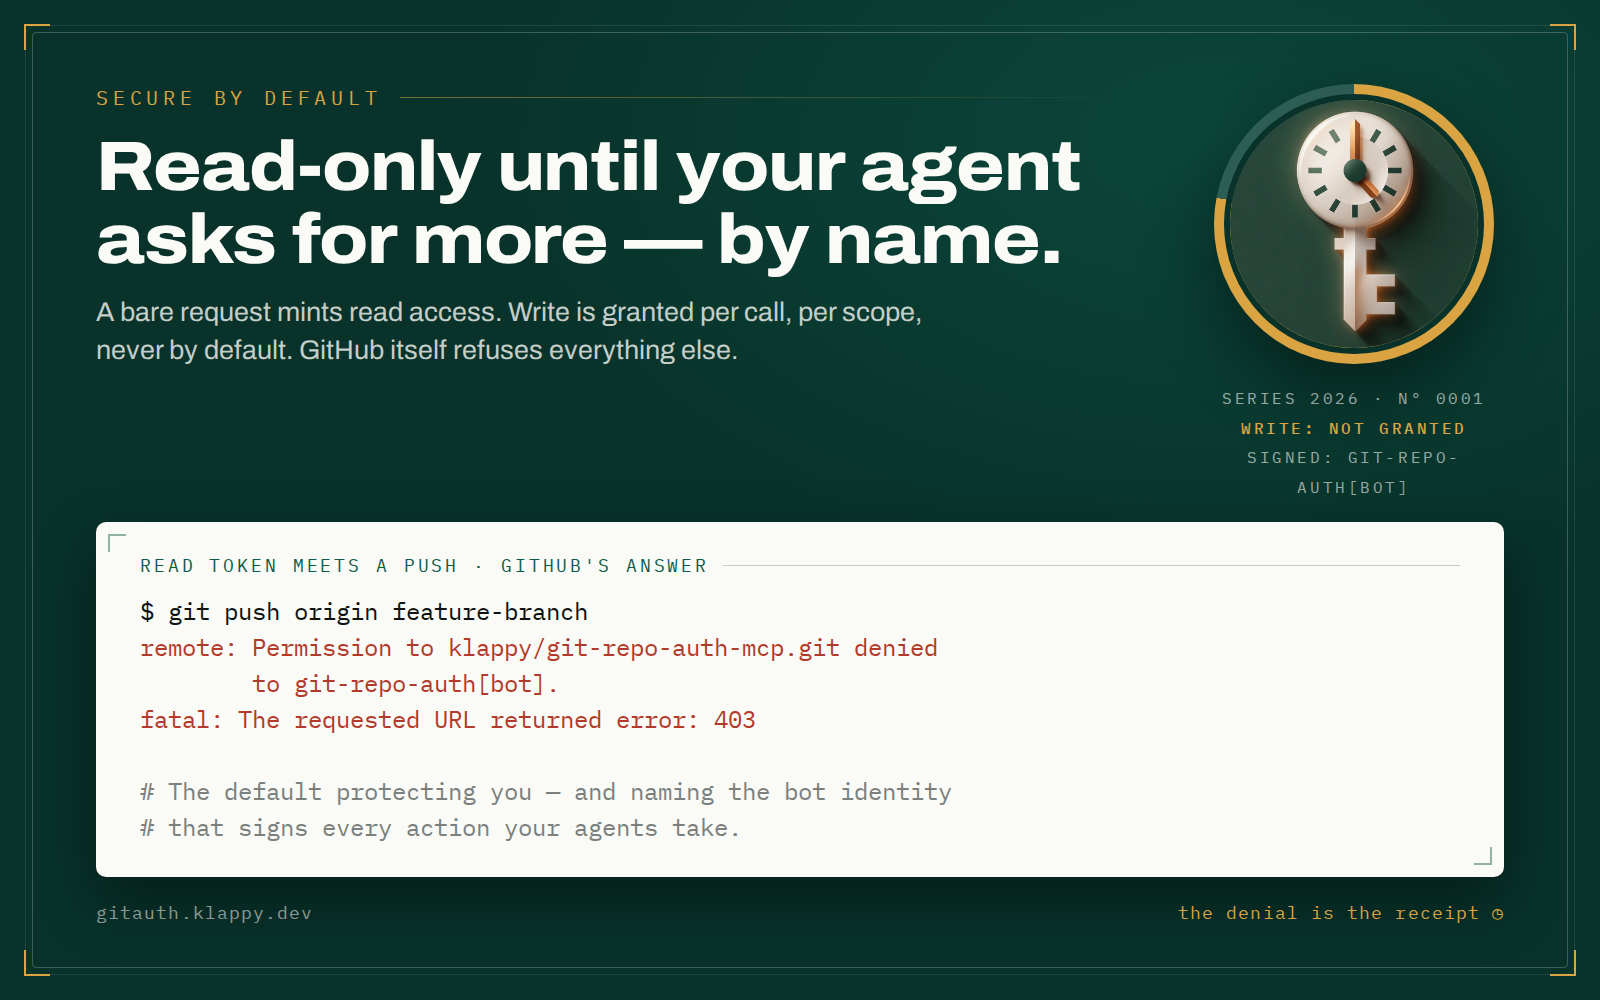
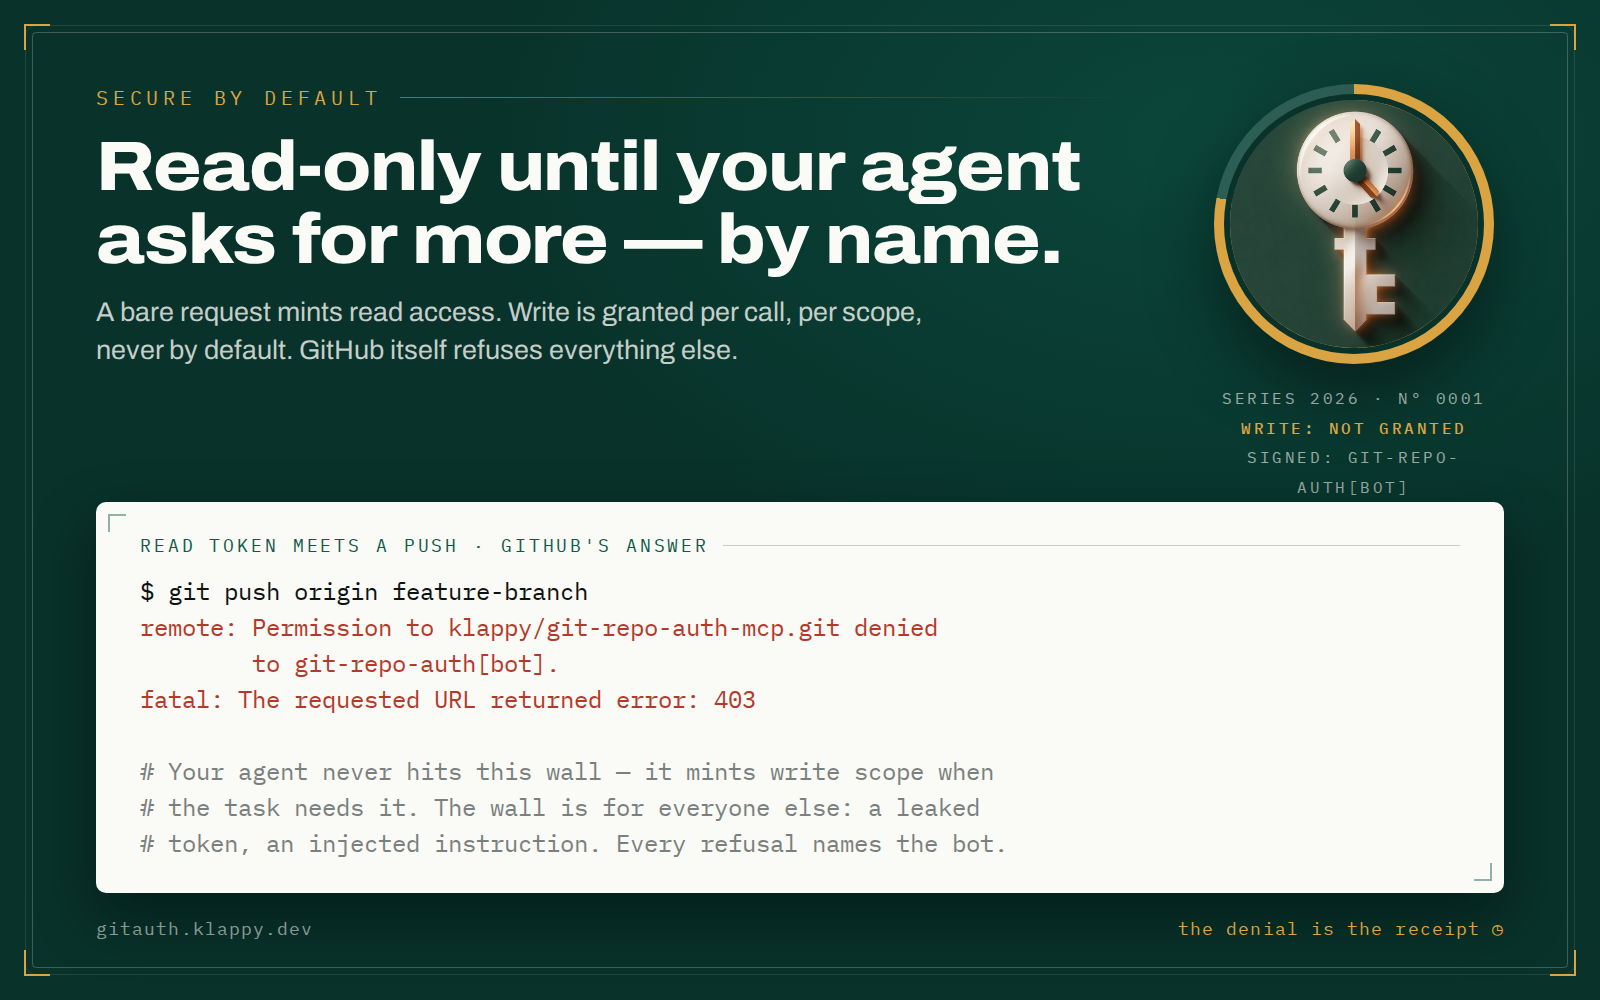
docs(marketing): card-2 reframed — agents self-correct scope; the 403 is the floor for leaked tokens and injected instructions, not the user experience

Changed region(s): [[0.0625, 0.496, 0.9375, 0.93]]

diff --git a/marketing/directory-listing/cards.html b/marketing/directory-listing/cards.html
@@ -98,8 +98,9 @@ pre{font-family:'IBM Plex Mono',monospace;font-size:24px;line-height:1.5;white-s
         to git-repo-auth[bot].</span>
 <span class="s">fatal: The requested URL returned error: 403</span>
 
-<span class="dim"># The default protecting you — and naming the bot identity
-# that signs every action your agents take.</span></pre>
+<span class="dim"># Your agent never hits this wall — it mints write scope when
+# the task needs it. The wall is for everyone else: a leaked
+# token, an injected instruction. Every refusal names the bot.</span></pre>
   </div>
   <div class="footer"><span>gitauth.klappy.dev</span><span class="tick">the denial is the receipt ◷</span></div>
 </div>
